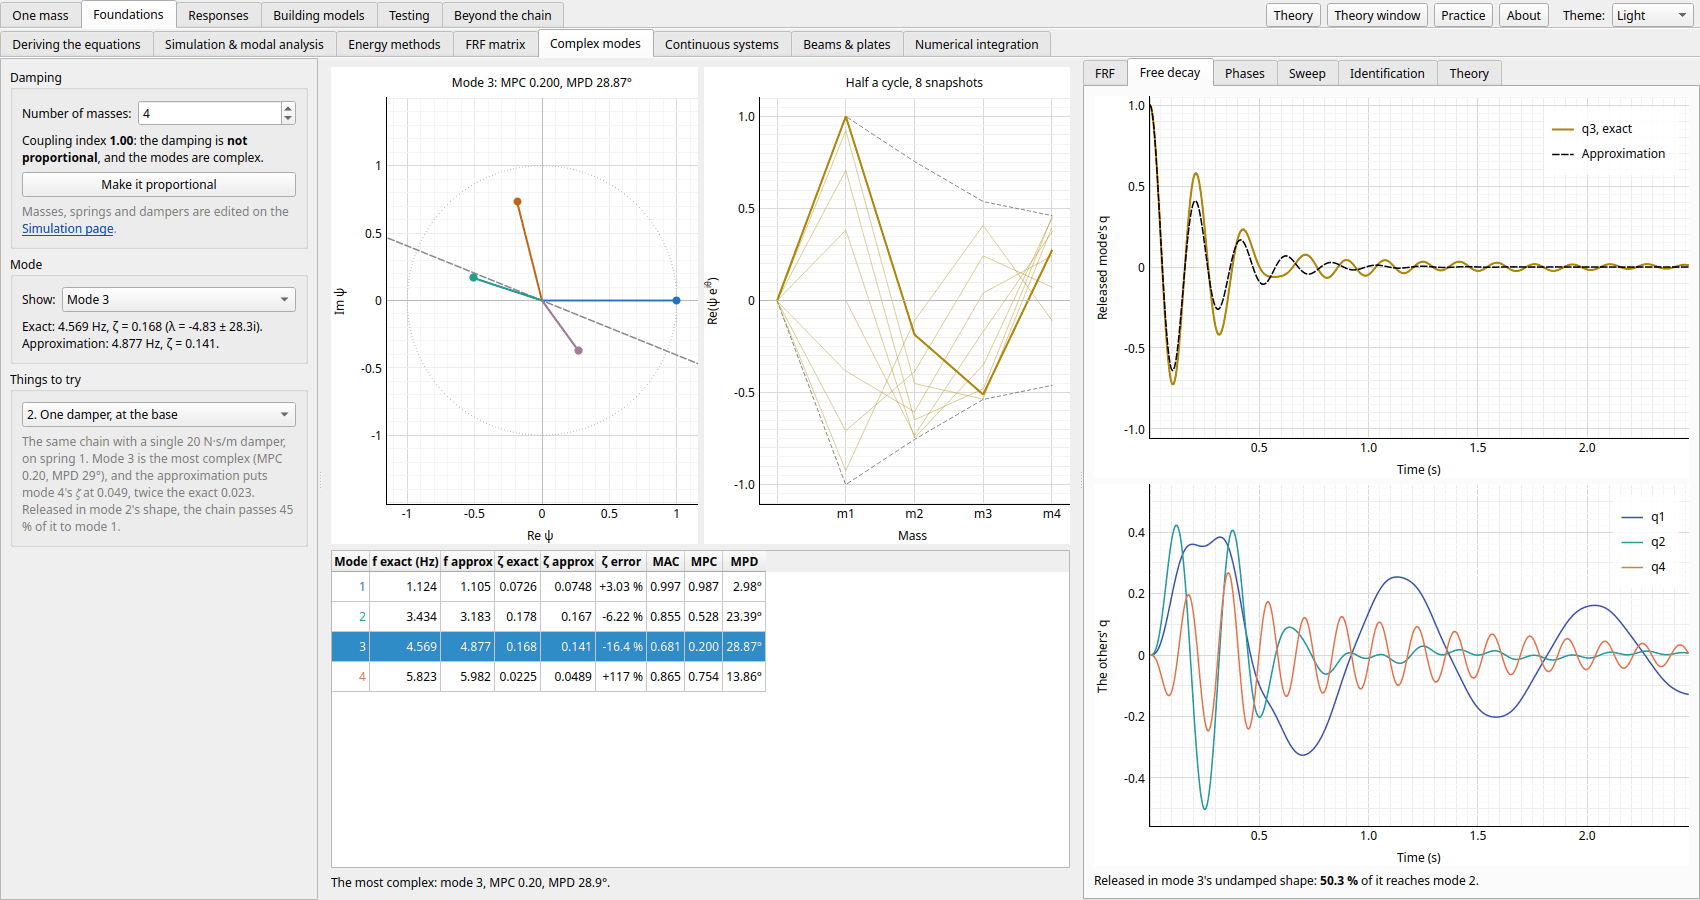
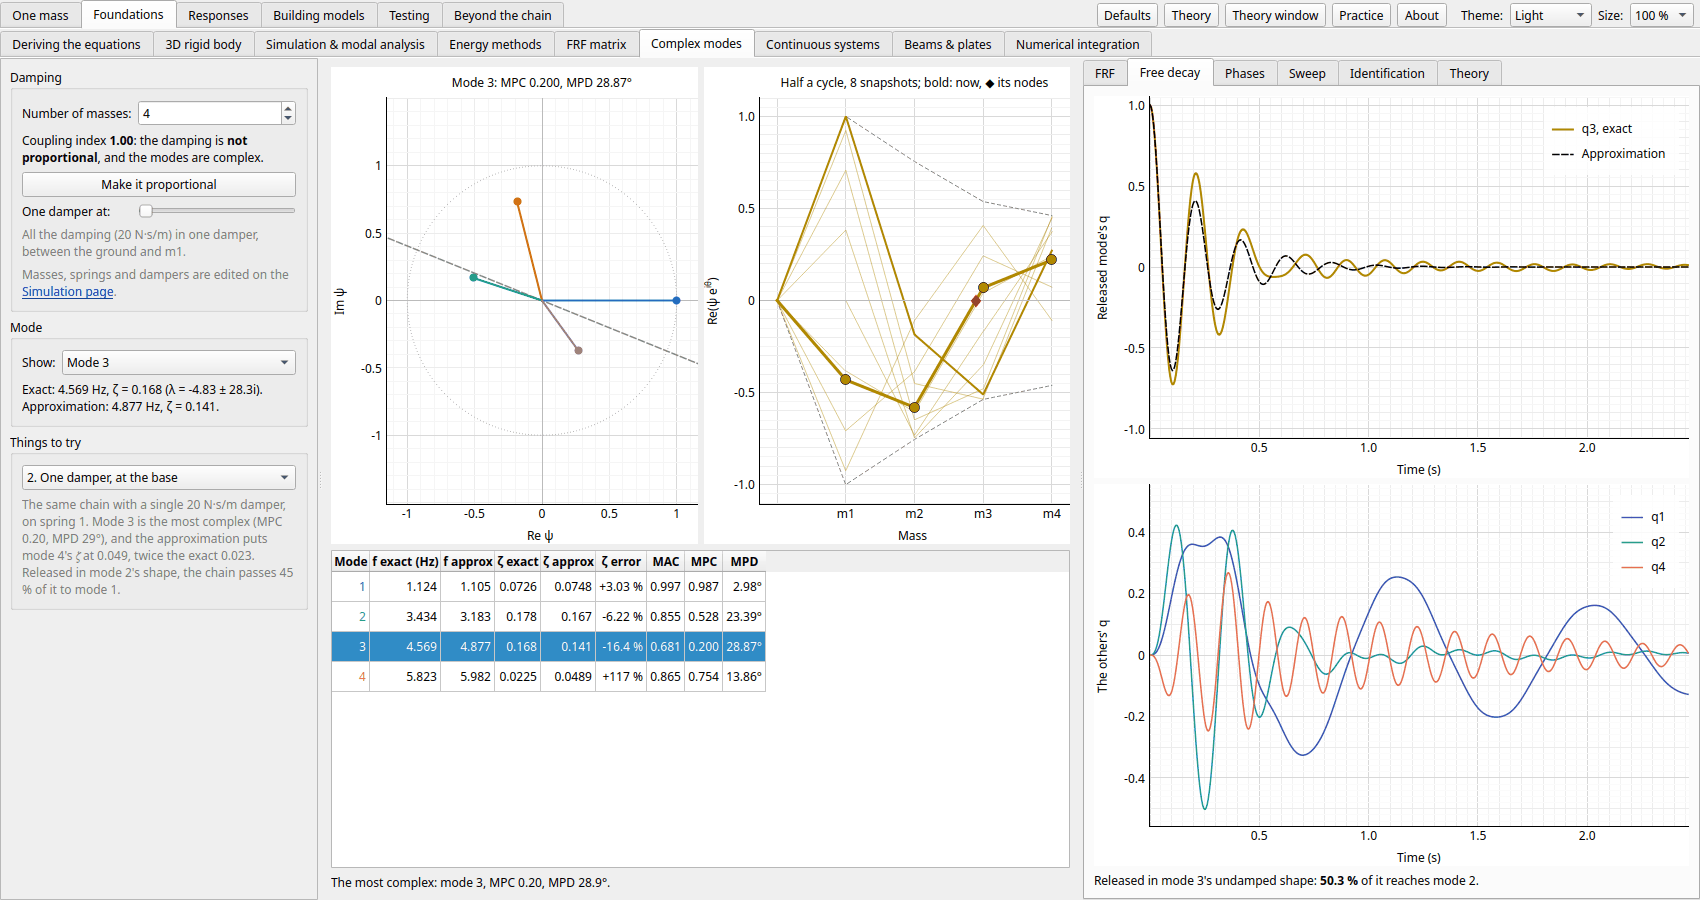
Complex modes: one damper slid along the chain, the mode swinging with its nodes; Modal coupling's modes swing (#316 B7)

diff --git a/src/vib_tutorial/theory/complex_modes.html b/src/vib_tutorial/theory/complex_modes.html
@@ -22,7 +22,10 @@ href="page:sim_page#non-proportional-damping-and-coupling">coupling index</a> of
 <p>With off-diagonal terms in <m>C<sub>m</sub></m>, a mode's damping force pushes on the other modes. The exact
 modes are then the eigenvectors of the <m>2N × 2N</m> state matrix, and their shapes <m>ψ<sub>r</sub></m> are
 complex: each mass has its own phase and peaks at its own time, the nodes move, and the motion is partly a wave
-travelling along the chain. How complex they get follows from the modal equations,</p>
+travelling along the chain. The snapshots in the centre swing (bold) with the mode's nodes marked: with
+proportional damping the node stands still, and with all the damping in one damper (<i>One damper at</i>,
+slid along the chain) it slides back and forth over each cycle. How complex they get follows from the modal
+equations,</p>
 <eq>\ddot q_s + \omega_s^2 q_s + \sum_k C_{m,sk}\,\dot q_k = 0</eq>
 <p>Look for mode <m>r</m>, <m>q<sub>s</sub> = a<sub>sr</sub> e<sup>λt</sup></m> with <m>a<sub>rr</sub> = 1</m>.
 When the damping is light, <m>λ ≈ iω<sub>r</sub></m> and the other <m>a<sub>sr</sub></m> are small, so in row

diff --git a/src/vib_tutorial/gui/complex_modes.py b/src/vib_tutorial/gui/complex_modes.py
@@ -1,8 +1,9 @@
 """Complex modes page: when the chain's damping is not proportional, and what that does to its modes.
 
-Left: the chain's damping (its coupling index, a button that makes it proportional), chains to
-try, and the mode looked at. Centre: that mode's exact shape ψ in the complex plane with its
-best-fit line, its snapshots over half a cycle, and every mode's exact pole and shape against
+Left: the chain's damping (its coupling index, a button that makes it proportional, a slider that gathers it
+into one damper and slides it along, `_on_damper_at`), chains to try, and the mode looked at. Centre: that
+mode's exact shape ψ in the complex plane with its best-fit line, its snapshots over half a cycle with the
+shape swinging over them and its nodes marked (`mode_swing.ModeSwing`), and every mode's exact pole and shape against
 the proportional approximation's. Right: the FRF, exact and approximated; a free decay from an
 undamped mode's shape, and what leaks to the others; each mode's phase scatter; one element swept, with
 its root locus (drag a pole along it: the other modes' poles slide with it, and letting go sets the element,
@@ -44,6 +45,7 @@ from .drag import DragDot
 from .layouts import ColumnScroll, FlowLayout, form_layout, group, plot_height
 from .lesson import TrialCombo
 from .links import load_notes, page_link
+from .mode_swing import ModeSwing
 from .notes_view import NotesBrowser
 from .panels import spin
 from .style import MAX_DOF, colors
@@ -53,6 +55,9 @@ from .theming import add_legend, mute
 SNAPSHOTS = 8  # over half a cycle, on the snapshots plot
 
 TIPS = {
+    "damper_at": "<p>Gather all the chain's damping into one damper and slide it along: between the ground and "
+    "m1, or between two masses. One damper is never proportional, and where it sits decides how complex each "
+    "mode gets: watch the mode's nodes slide (travelling) or stay put (standing).</p>",
     "coupling": "<p>The largest off-diagonal term of Φ<sup>T</sup>CΦ against its diagonal's, "
     "|c<sub>rs</sub>|/√(c<sub>rr</sub>c<sub>ss</sub>): 0 when the damping is proportional, near 1 or "
     "more when it couples the modes strongly.</p>",
@@ -414,6 +419,20 @@ class ComplexModesPage(QtWidgets.QWidget):
         self.make_proportional = QtWidgets.QPushButton("Make it proportional")
         self.make_proportional.setToolTip(TIPS["proportional"])
         form.addRow(self.make_proportional)
+        self.damper_at = QtWidgets.QSlider(QtCore.Qt.Orientation.Horizontal)
+        self.damper_at.setRange(1, 2)
+        self.damper_at.setPageStep(1)
+        self.damper_at.setToolTip(TIPS["damper_at"])
+        self.damper_at.setAccessibleName("One damper, at element")
+        self.damper_at.valueChanged.connect(self._on_damper_at)
+        damper_label = QtWidgets.QLabel("One damper at:")
+        damper_label.setToolTip(TIPS["damper_at"])
+        damper_label.setBuddy(self.damper_at)
+        form.addRow(damper_label, self.damper_at)
+        self.damper_info = QtWidgets.QLabel()
+        self.damper_info.setWordWrap(True)
+        mute(self.damper_info)
+        form.addRow(self.damper_info)
         link = QtWidgets.QLabel("Masses, springs and dampers are edited on the <a href='#sim'>Simulation page</a>.")
         mute(link)
         link.setWordWrap(True)
@@ -463,6 +482,7 @@ class ComplexModesPage(QtWidgets.QWidget):
         self.strobe = _plot("Re(ψ e<sup>iθ</sup>)", None, "Mass", None)
         self.strobe.setMouseEnabled(x=False, y=False)
         self.strobe.setToolTip(STROBE_TIP)
+        self.swing = ModeSwing(self.strobe, "Complex modes")
         for p in (self.argand, self.strobe):
             plot_height(p, 220)
         shapes = QtWidgets.QWidget()
@@ -695,6 +715,7 @@ class ComplexModesPage(QtWidgets.QWidget):
             self.sweep_element.blockSignals(True)  # sweep a damper the chain has
             self.sweep_element.setCurrentIndex(int(np.argmax(system.damping)))
             self.sweep_element.blockSignals(False)
+        self._sync_damper_at()
         if self.isVisible():
             self.recompute()
         else:
@@ -726,6 +747,39 @@ class ComplexModesPage(QtWidgets.QWidget):
             tuple(float(m) for m in system.masses),
             tuple(float(k) for k in system.stiffness),
             self.tabs.currentIndex(),
+        )
+
+    def _sync_damper_at(self) -> None:
+        """The slider at the chain's lone damper (if it has one), and what moving it would do."""
+        assert self.system is not None, "set with the chain"
+        c = self.system.damping
+        n = self.system.n
+        self.damper_at.blockSignals(True)
+        self.damper_at.setRange(1, n)
+        lone = np.flatnonzero(c)
+        if lone.size == 1:
+            self.damper_at.setValue(int(lone[0]) + 1)
+        self.damper_at.blockSignals(False)
+        self.damper_at.setEnabled(bool(c.any()) and n > 1)
+        k = self.damper_at.value()
+        where = f"between m{k - 1} and m{k}" if k > 1 else "between the ground and m1"
+        self.damper_info.setText(
+            f"All the damping ({float(c.sum()):.3g} N·s/m) in one damper, {where}"
+            + ("." if lone.size == 1 else ": move the slider to gather it there.")
+            if c.any()
+            else "No dampers: the modes are real (standing)."
+        )
+
+    def _on_damper_at(self, k: int) -> None:
+        """Every damper's c gathered into one, at element k: the chain changes, through the Simulation page."""
+        if self.system is None:
+            return
+        s = self.system
+        c = np.zeros(s.n)
+        c[k - 1] = float(s.damping.sum())
+        self.trial_note.setVisible(False)
+        self.system_requested.emit(
+            ChainSystem(s.masses.copy(), s.stiffness.copy(), c, s.friction.copy(), s.static_ratio)
         )
 
     def _on_make_proportional(self) -> None:
@@ -914,6 +968,7 @@ class ComplexModesPage(QtWidgets.QWidget):
         a.clear()
         s.clear()
         if c.shape is None:
+            self.swing.set_shape(np.zeros(0), np.zeros(0, complex))
             self.mode_info.setText(
                 f"Mode {c.index} has no oscillating pole: the damping has made it a pair of real roots."
             )
@@ -953,7 +1008,8 @@ class ComplexModesPage(QtWidgets.QWidget):
         s.setXRange(-0.25, n + 0.25, padding=0)
         s.setYRange(-1.1, 1.1, padding=0)
         s.getAxis("bottom").setTicks([[(0, "ground")] + [(i + 1, f"m{i + 1}") for i in range(n)]])
-        s.setTitle("Half a cycle, 8 snapshots", size="9pt")
+        s.setTitle("Half a cycle, 8 snapshots; bold: now, ◆ its nodes", size="9pt")
+        self.swing.set_shape(xs, np.concatenate([[0.0], psi]), colour)
         self.mode_info.setText(
             f"Exact: {c.fn_exact:.4g} Hz, ζ = {c.zeta_exact:.3g} (λ = {lam.real:.3g} ± {lam.imag:.4g}i). "
             f"Approximation: {c.fn_hz:.4g} Hz, ζ = {c.zeta_approx:.3g}."

diff --git a/src/vib_tutorial/gui/mode_swing.py b/src/vib_tutorial/gui/mode_swing.py
@@ -1,0 +1,115 @@
+"""A mode shape swinging on a plot: Re(ψ e^{iθ}) drawn as θ turns, its nodes marked as they move.
+
+A real mode is a standing wave: every point reaches its peak together and its nodes stay put. A complex mode
+(non-proportional damping, a gyroscopic term) is partly travelling: each point peaks at its own phase, so
+the shape never passes through zero all at once and its nodes slide along the chain. `ModeSwing` shows which.
+
+- `ModeSwing(plot, name, host=None)`: its items go on `plot` (`attach()` again after the page clears the plot),
+  and its `FrameLoop` runs while `host` (a widget; the plot when it is one) shows: a mode shape swings on its
+  own (CLAUDE.md's run state).
+- `set_shape(x, psi, colour)`: the points' positions and complex amplitudes (the first a fixed end at 0 when
+  `fixed_first`, drawn without a dot); one cycle takes `SECONDS_PER_CYCLE`.
+- `nodes()`: where the shape crosses zero now (interpolated between points).
+
+Used by Complex modes (the mode looked at, on its snapshots) and Modal coupling (the chain's two modes).
+
+Working on it: `tests/test_complex_modes.py` checks a proportional mode's node stays put and a complex one's
+travels; `test_gui_smoke.py`'s frame test runs its loop.
+"""
+
+from __future__ import annotations
+
+import math
+
+import numpy as np
+import pyqtgraph as pg
+from PySide6 import QtCore
+
+from .frame_loop import FrameLoop
+from .style import colors
+
+SECONDS_PER_CYCLE = 2.0
+
+
+class ModeSwing(QtCore.QObject):
+    def __init__(self, plot, name: str, host=None) -> None:
+        super().__init__(host or plot)
+        self.plot = plot
+        self.theta = 0.0
+        self.x = np.zeros(0)
+        self.psi = np.zeros(0, complex)
+        self.fixed_first = True
+        self.line = pg.PlotDataItem()
+        self.dots = pg.PlotDataItem(pen=None, symbol="o", symbolSize=10)
+        self.node_marks = pg.PlotDataItem(pen=None, symbol="d", symbolSize=13)
+        for item in (self.line, self.dots, self.node_marks):
+            item.setZValue(10)
+        self.colour = colors.mode[0]
+        self.attach()
+        self.apply_theme()
+        self.loop = FrameLoop(host or plot, name, self._tick, self._runs, self._sim_t)
+
+    def attach(self) -> None:
+        for item in (self.line, self.dots, self.node_marks):
+            if item.scene() is None:
+                self.plot.addItem(item)
+
+    def apply_theme(self) -> None:
+        self.line.setPen(pg.mkPen(self.colour, width=3))
+        self.dots.setSymbolBrush(pg.mkBrush(self.colour))
+        self.dots.setSymbolPen(pg.mkPen(colors.structure, width=1))
+        self.node_marks.setSymbolBrush(pg.mkBrush(colors.force))
+        self.node_marks.setSymbolPen(None)
+        self._draw()
+
+    def set_shape(self, x: np.ndarray, psi: np.ndarray, colour=None, fixed_first: bool = True) -> None:
+        self.x = np.asarray(x, dtype=float)
+        self.psi = np.asarray(psi, dtype=complex)
+        self.fixed_first = fixed_first
+        if colour is not None:
+            self.colour = colour
+        self.attach()
+        self.apply_theme()
+        self.loop.start()
+
+    def shape_now(self) -> np.ndarray:
+        return (self.psi * np.exp(1j * self.theta)).real
+
+    def nodes(self) -> np.ndarray:
+        """Where the shape crosses zero now, between points (a fixed end isn't one)."""
+        y = self.shape_now()
+        if not y.size or float(np.max(np.abs(y))) < 1e-9:
+            return np.zeros(0)
+        scale = float(np.max(np.abs(self.psi)))
+        out = []
+        tiny = 1e-9 * scale
+        for i in range(y.size):
+            if abs(y[i]) <= tiny:  # on the axis (a fixed end isn't a node)
+                if not (self.fixed_first and i == 0):
+                    out.append(self.x[i])
+            elif i + 1 < y.size and abs(y[i + 1]) > tiny and y[i] * y[i + 1] < 0:
+                out.append(self.x[i] + (self.x[i + 1] - self.x[i]) * y[i] / (y[i] - y[i + 1]))
+        return np.array(out)
+
+    def _draw(self) -> None:
+        if not self.x.size:
+            for item in (self.line, self.dots, self.node_marks):
+                item.setData([], [])
+            return
+        y = self.shape_now()
+        self.line.setData(self.x, y)
+        start = 1 if self.fixed_first else 0
+        self.dots.setData(self.x[start:], y[start:])
+        nodes = self.nodes()
+        self.node_marks.setData(nodes, np.zeros_like(nodes))
+
+    # ------------------------------------------------------------------ the loop
+    def _runs(self) -> bool:
+        return bool(self.x.size)
+
+    def _sim_t(self) -> float | None:
+        return None
+
+    def _tick(self, dt: float) -> None:
+        self.theta = (self.theta + 2 * math.pi * dt / SECONDS_PER_CYCLE) % (2 * math.pi)
+        self._draw()

diff --git a/tests/test_complex_modes.py b/tests/test_complex_modes.py
@@ -203,3 +203,46 @@ def test_identification_real_and_complex_modes():
     noisy = identify(UNIFORM, modal_analysis(UNIFORM), noise=0.01, seed=0)
     mpc = [complexity(m.shape).mpc for m in noisy.complex_fit.modes]
     assert min(mpc) < 0.995 and noisy.real_fit.error < 0.01
+
+
+def test_one_damper_slides_along_the_chain_and_the_mode_swings_travelling_or_standing(main_window):
+    """The slider gathers the damping into one damper at the element picked (the Simulation page's chain too);
+    the mode looked at swings on the snapshots, its node staying put when the damping is proportional and
+    sliding along when it isn't."""
+    import math
+
+    from PySide6 import QtWidgets
+
+    w = main_window
+    page = w.complex_page
+    w.pages.setCurrentWidget(page)
+    QtWidgets.QApplication.processEvents()
+    total = float(w.sim.system.damping.sum())
+    page.damper_at.setValue(4)
+    assert np.allclose(w.sim.system.damping, [0, 0, 0, total]) and "between m3 and m4" in page.damper_info.text()
+    page.mode.setCurrentIndex(1)  # mode 2: one node
+
+    def node_path(swing):
+        out = []
+        for theta in np.linspace(0.0, math.pi, 9)[:-1]:
+            swing.theta = float(theta)
+            nodes = swing.nodes()
+            if nodes.size:
+                out.append(float(nodes[0]))
+        return np.array(out)
+
+    travelling = node_path(page.swing)
+    assert np.ptp(travelling) > 0.05  # complex: the node moves along the chain over the cycle
+
+    page.make_proportional.click()
+    standing = node_path(page.swing)
+    assert standing.size and np.ptp(standing) < 1e-6  # real: it stays put
+    page.swing.theta = 0.0
+    page.swing._tick(0.5)  # a quarter of a cycle on
+    assert page.swing.theta == pytest.approx(math.pi / 2)
+
+    page = w.coupling_page  # the coupled chain's modes swing too, standing
+    w.pages.setCurrentWidget(page)
+    page.tabs.setCurrentWidget(page.shapes)
+    QtWidgets.QApplication.processEvents()
+    assert all(s.x.size for s in page.shapes.swings)

diff --git a/src/vib_tutorial/gui/modal_coupling.py b/src/vib_tutorial/gui/modal_coupling.py
@@ -44,6 +44,7 @@ from .coupling_notes import THEORY_HTML, TRIALS, CouplingTrial, matrices_html
 from .layouts import ColumnScroll, form_layout, header_tip
 from .lesson import TrialCombo
 from .links import page_link
+from .mode_swing import ModeSwing
 from .notes_view import NotesBrowser
 from .style import MAX_DOF, colors, text_on
 from .substructuring import error_color, zeta_text
@@ -716,6 +717,7 @@ class ShapePlots(pg.GraphicsLayoutWidget):
             p.setLabel("left", "Normalized amplitude")
             self.plots.append(p)
             self.legends.append(add_legend(p, offset=(5, 2), colCount=2))
+        self.swings = [ModeSwing(p, "Modal coupling", host=self) for p in self.plots]
         self.plots[1].setLabel("bottom", "Position along chain (0 = ground)")
         self.apply_theme()
 
@@ -724,10 +726,11 @@ class ShapePlots(pg.GraphicsLayoutWidget):
             legend.setBrush(colors.legend_brush())
 
     def set_model(self, model: CoupledModel | None, full: ModalResult, comparisons: list[CoupledComparison]) -> None:
-        for p, legend in zip(self.plots, self.legends):
+        for p, legend, swing in zip(self.plots, self.legends, self.swings):
             p.clear()
             legend.clear()
             p.setTitle("")
+            swing.set_shape(np.zeros(0), np.zeros(0, complex))
         if model is None:
             return
         n = model.system.n
@@ -776,6 +779,7 @@ class ShapePlots(pg.GraphicsLayoutWidget):
                 else f"2-DOF mode {r + 1}: m_a still · error {err}, MAC {c.mac:.3f}",
                 size="10pt",
             )
+            self.swings[r].set_shape(xs, np.concatenate([[0.0], true / np.abs(true).max()]), color)
             p.setXRange(0, n, padding=0.05)
             p.getAxis("bottom").setTicks([[(0, "ground")] + [(i, f"m{i}") for i in range(1, n + 1)]])
 

diff --git a/docs/code-layout.md b/docs/code-layout.md
@@ -174,6 +174,8 @@
   redraws in a new one through its `apply_theme()`. Log axes use `gui/axes.py`, which labels
   only as many ticks as fit. What the reader drags on a plot is `gui/drag.py`'s: a `DragLine` (a value,
   with a grip) a `DragDot` (a point sliding along a curve) or a `DragPoint` (a point dragged anywhere, a pole), each a signal the page binds to its box.
+  A mode shape swings on a plot by `gui/mode_swing.py`'s `ModeSwing` (Re(ψ e<sup>iθ</sup>) and its moving
+  nodes, on its own frame loop): Complex modes and Modal coupling.
   A closed-form response is played back in time by `gui/playback.py`'s `Playback` (Start, Reset, a
   speed, and a time cursor on its plots), which moves the page's body: the Single oscillator's mass,
   Pendulums' pendulum (`gui/pendulum_view.py`, each kind drawn and turned with the mouse), and Damping

diff --git a/docs/foundations.md b/docs/foundations.md
@@ -301,6 +301,8 @@ The **Complex modes** page looks at what the damping does to the chain's modes. 
 damping (Φ<sup>T</sup>CΦ diagonal: here, a damper per spring in proportion to it) every mode keeps its
 real, undamped shape; a damper on its own couples the modes, and the exact (state-space) shapes become
 complex: each mass peaks at its own time, and the nodes move. It follows the chain on the Simulation page.
+The mode looked at swings on its snapshots with its nodes marked, standing still or sliding, and *One damper
+at* gathers the chain's damping into one damper and slides it along the chain.
 
 - **The mode in the complex plane**: one arrow per mass, with the best-fit line, and its snapshots over
   half a cycle: one shape, scaled, for a real mode; changing shape, the nodes wandering, for a complex one.

diff --git a/docs/building-models.md b/docs/building-models.md
@@ -49,7 +49,7 @@ modes veer apart instead of crossing; two oscillators tuned exactly end up √μ
 whatever μ.
 
 The notes work the default split through by hand (the masses, the tuned-oscillator split, the
-model's errors) and close with frequency-based substructuring: joining two parts by their FRFs.
+model's errors) and close with frequency-based substructuring: joining two parts by their FRFs. The *Mode shapes* tab swings the chain's two modes, standing waves whose nodes stay put.
 
 ![Modal coupling: m3–m4 made light (0.1 kg) and tuned to m1–m2; the 2-DOF model (dashed) follows the chain's two lowest modes through the veering, within 0.33%](images/modal_coupling.png)
 
